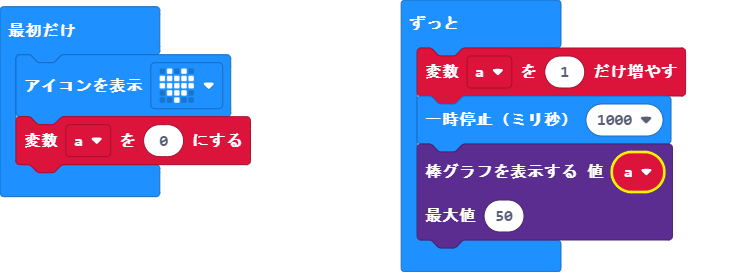
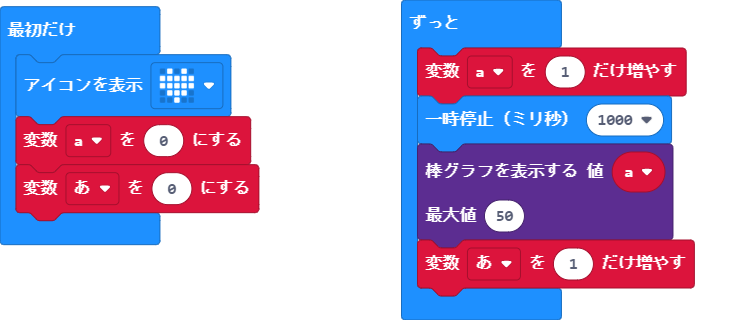
変数あを追加

Changed region(s): [[0.5298, 0.0, 0.935, 1.0], [0.0, 0.0, 0.374, 0.7941], [0.0, 0.0588, 0.1247, 0.1471]]

diff --git a/main.ts b/main.ts
@@ -1,5 +1,6 @@
 basic.showIcon(IconNames.Heart)
 let a = 0
+let あ = 0
 basic.forever(function () {
     a += 1
     basic.pause(1000)
@@ -7,4 +8,5 @@ basic.forever(function () {
     a,
     50
     )
+    あ += 1
 })
